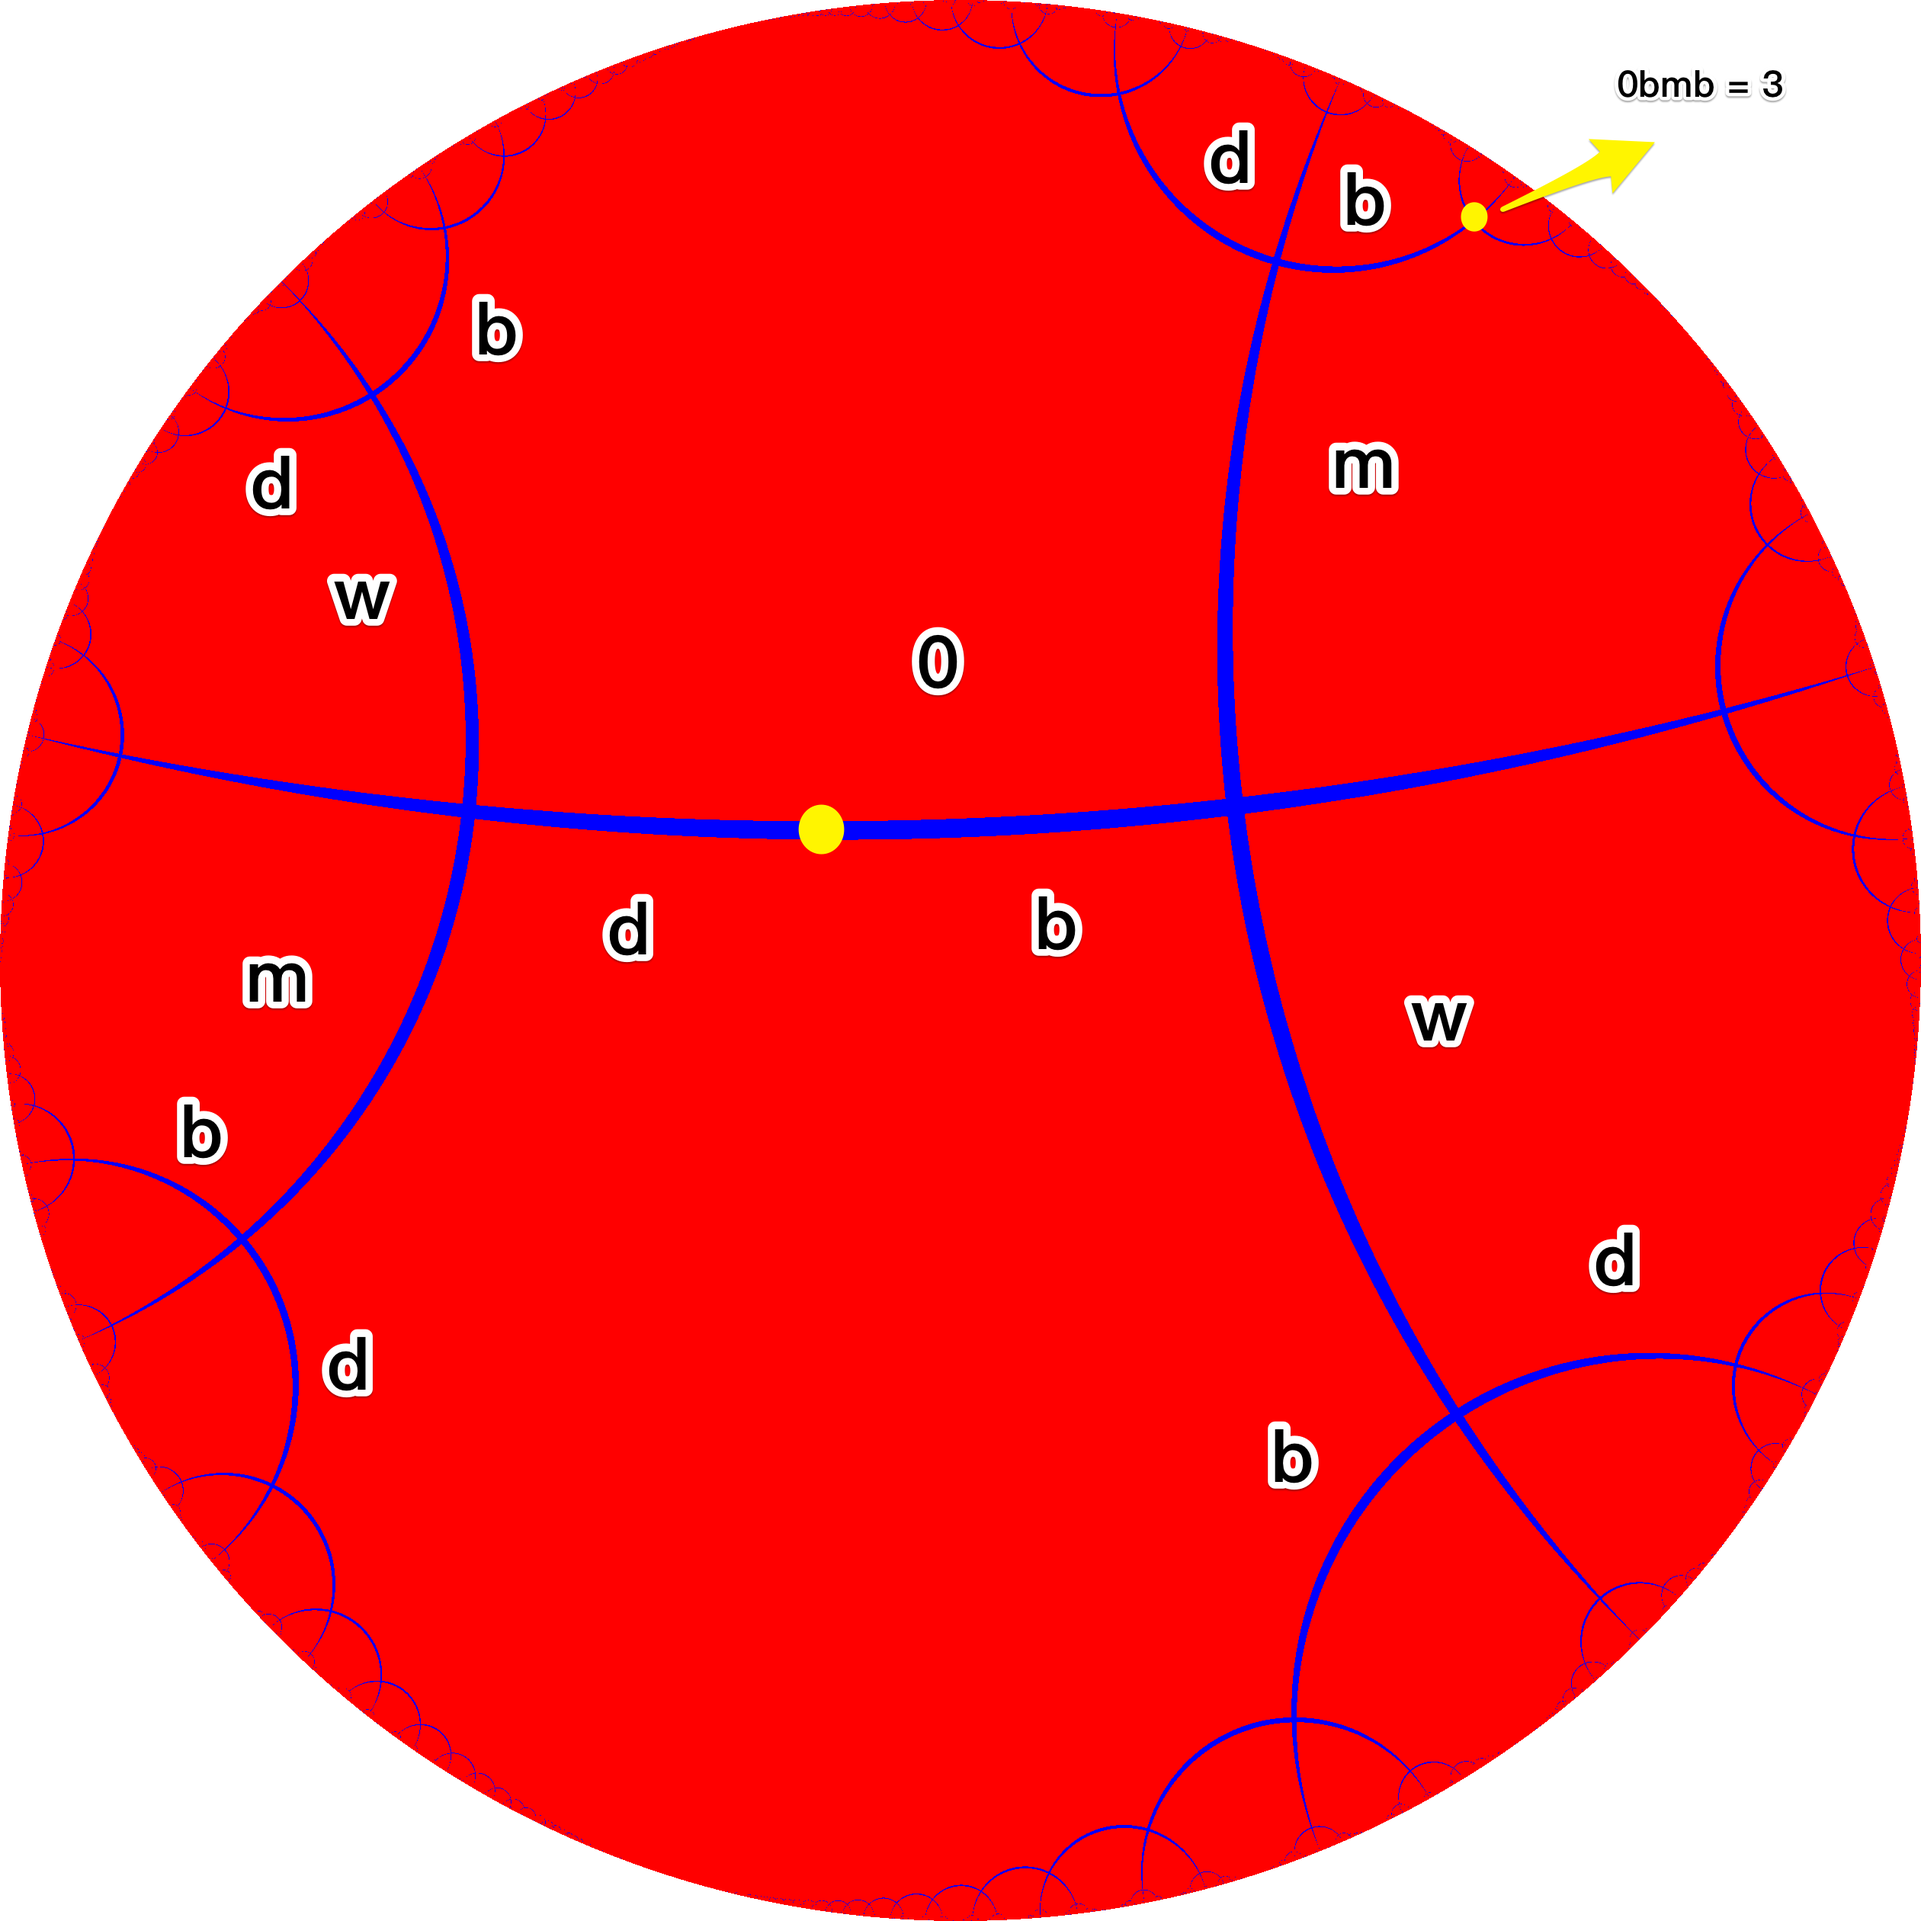
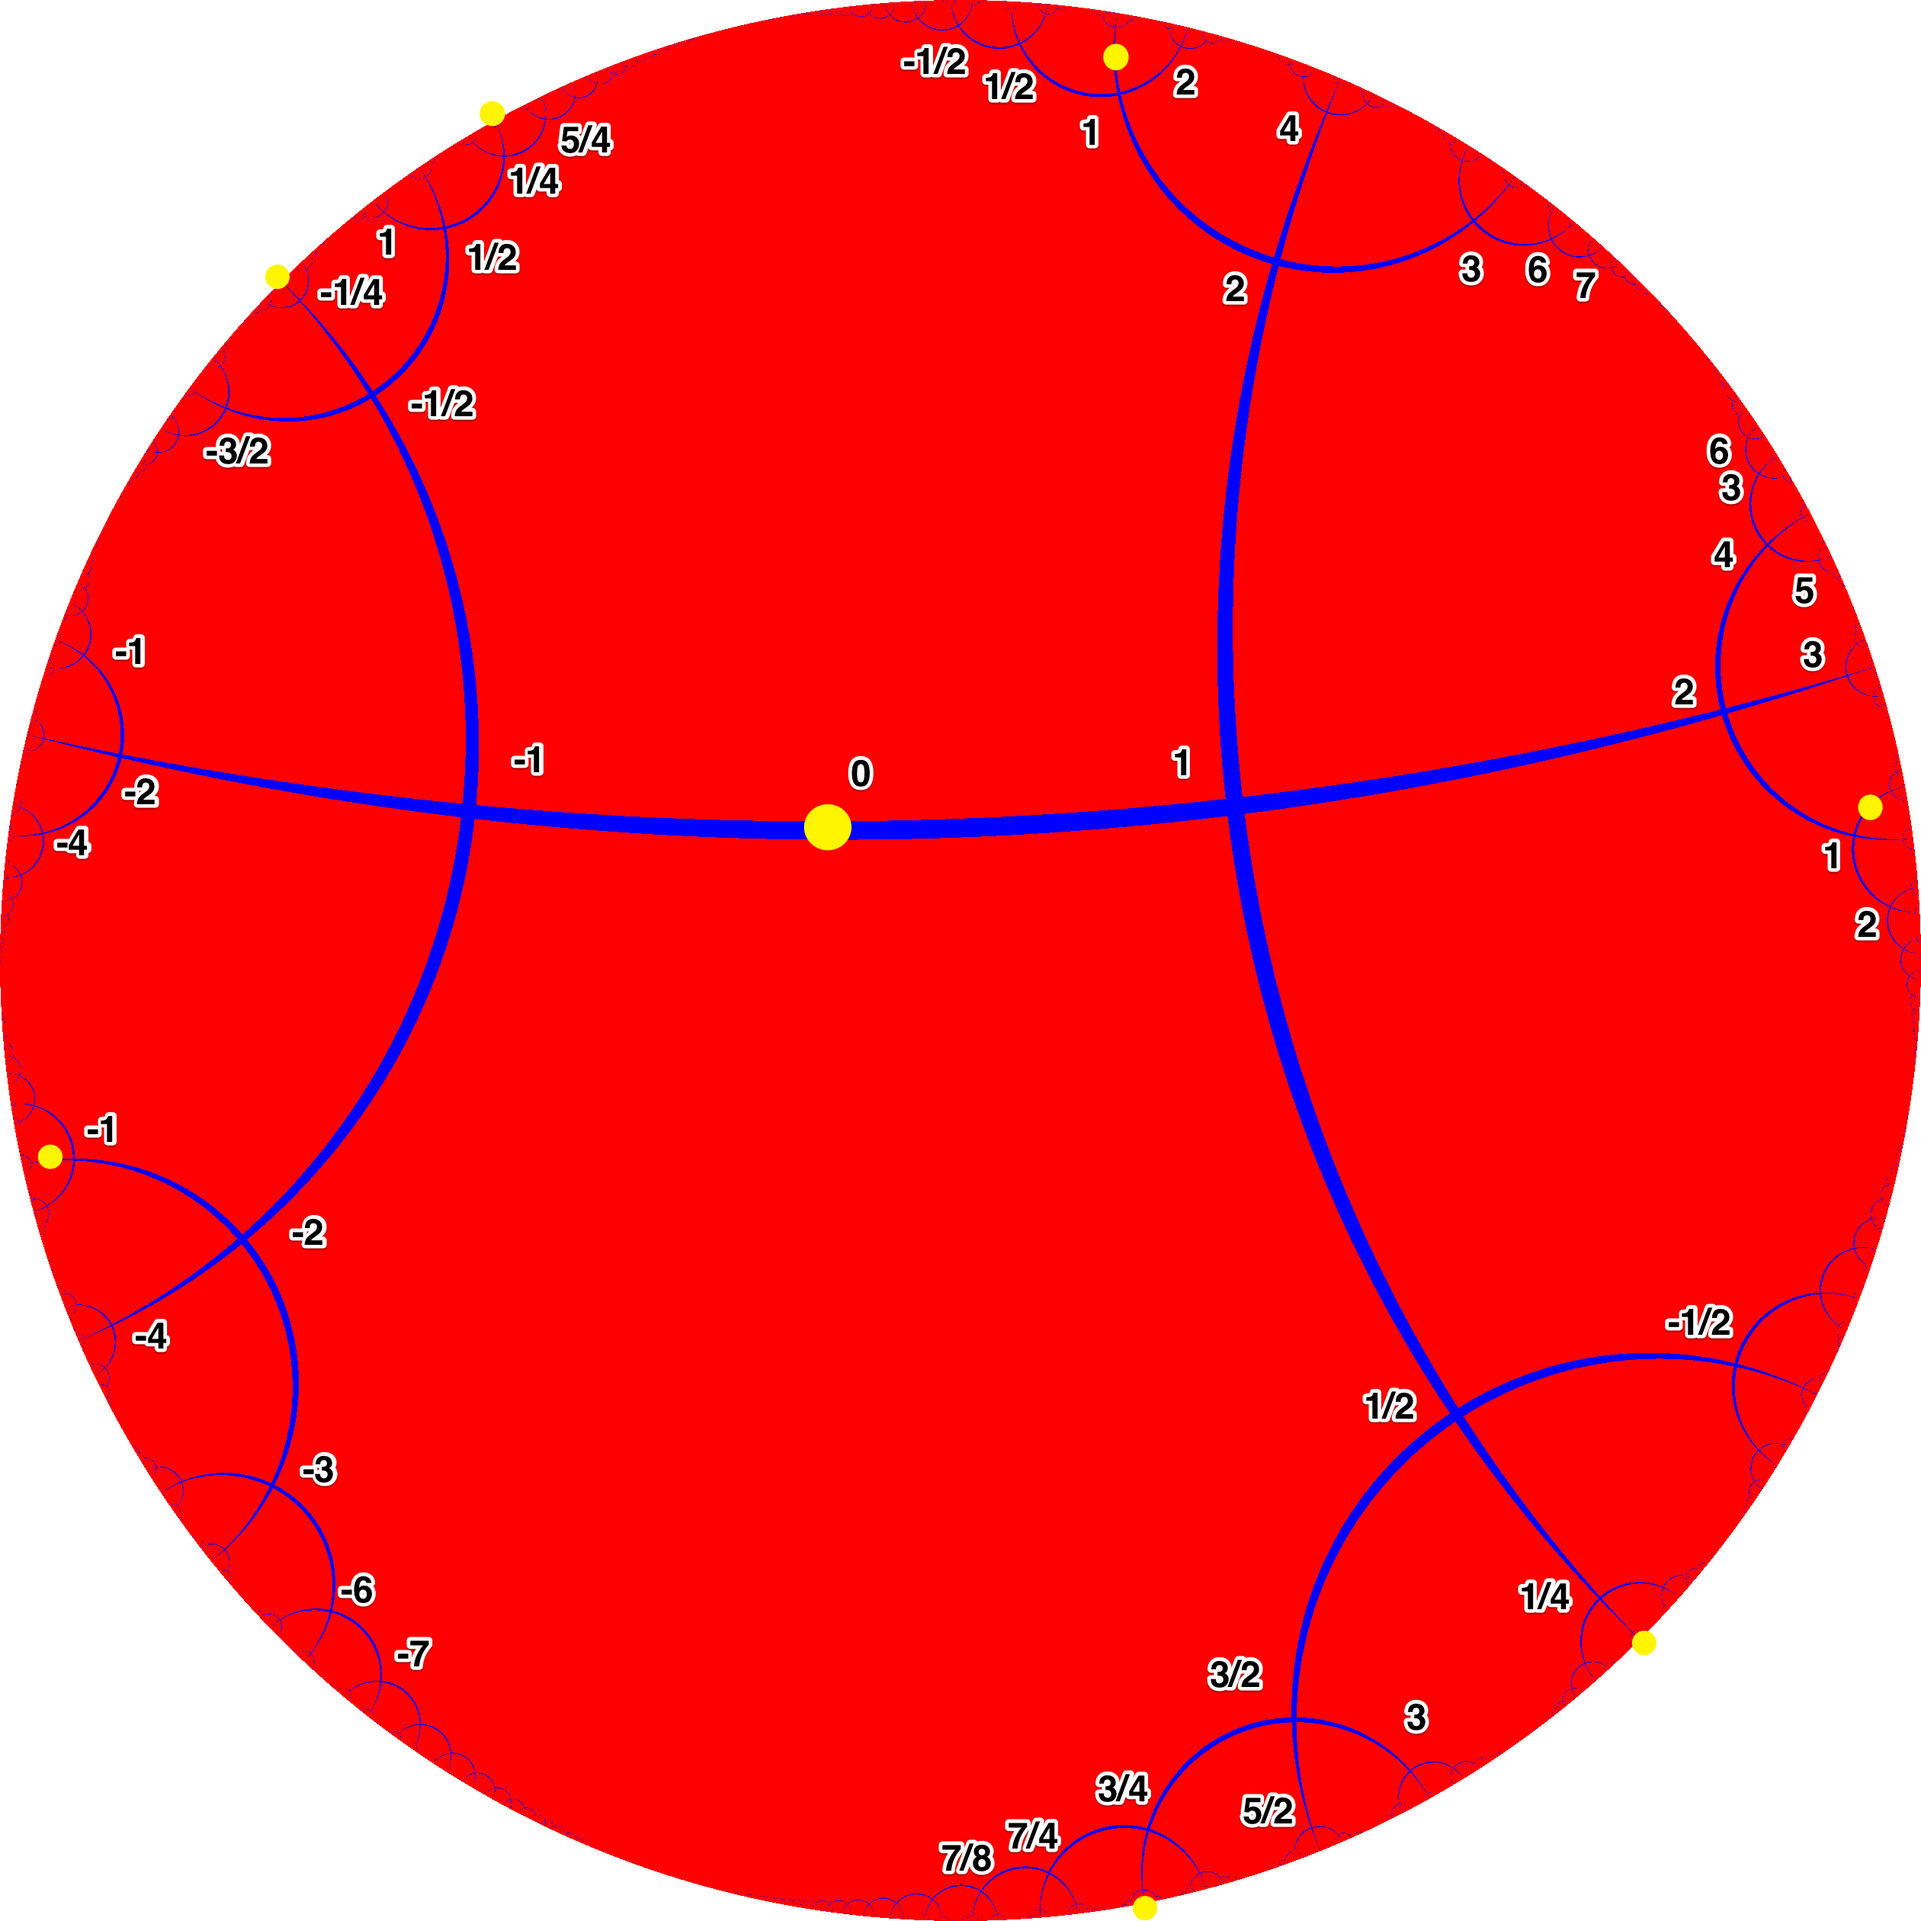
revise

diff --git a/amp.tex b/amp.tex
@@ -373,6 +373,12 @@ m 和 w 作为乘性组，它们彼此交替出现。上述过程可以被下面
 
 更优的着色方案会给出第二种赋值方案。
 
+\begin{figure}[ht]
+\centering
+\includegraphics[width=3.5in]{images/H2_tiling_with_assign_2.png}
+\caption{第二种赋值方案}
+\end{figure}
+
 \section{关于最短表示}
 
 在第二种赋值方案里，对一个数字，我们考察零点到它的最短路径，这个最短路径称为该数字的最短表示。
